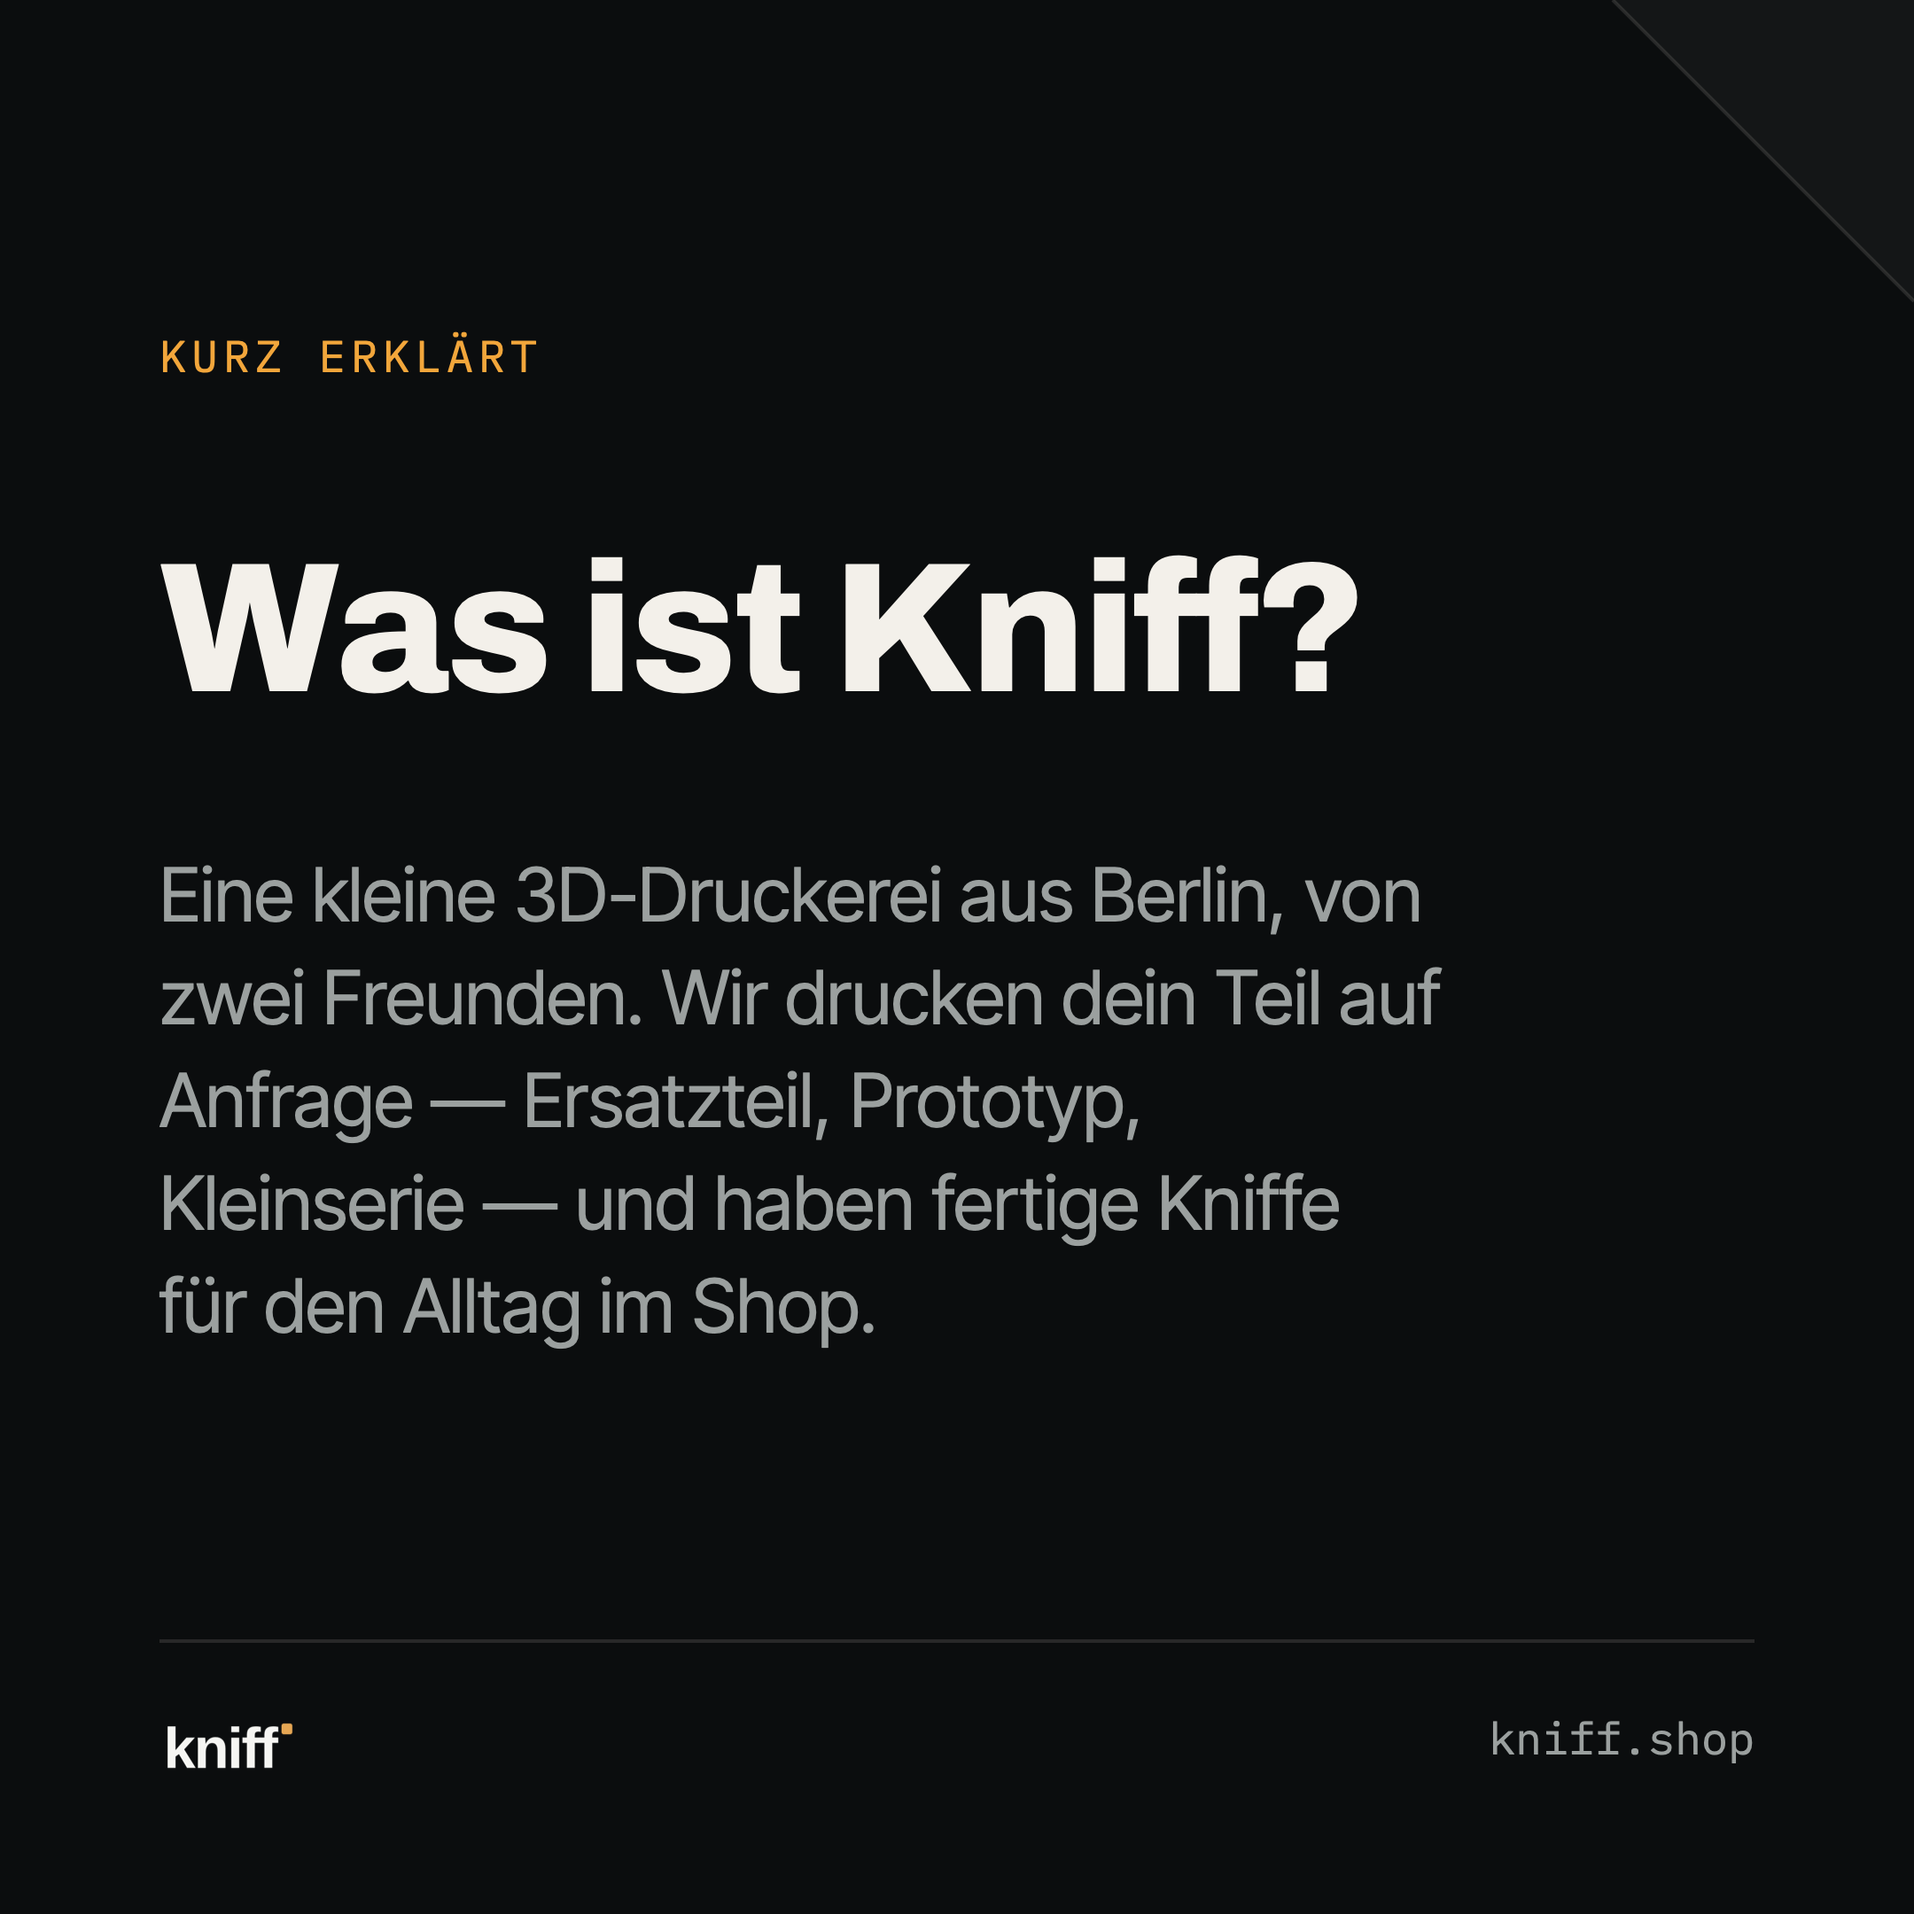
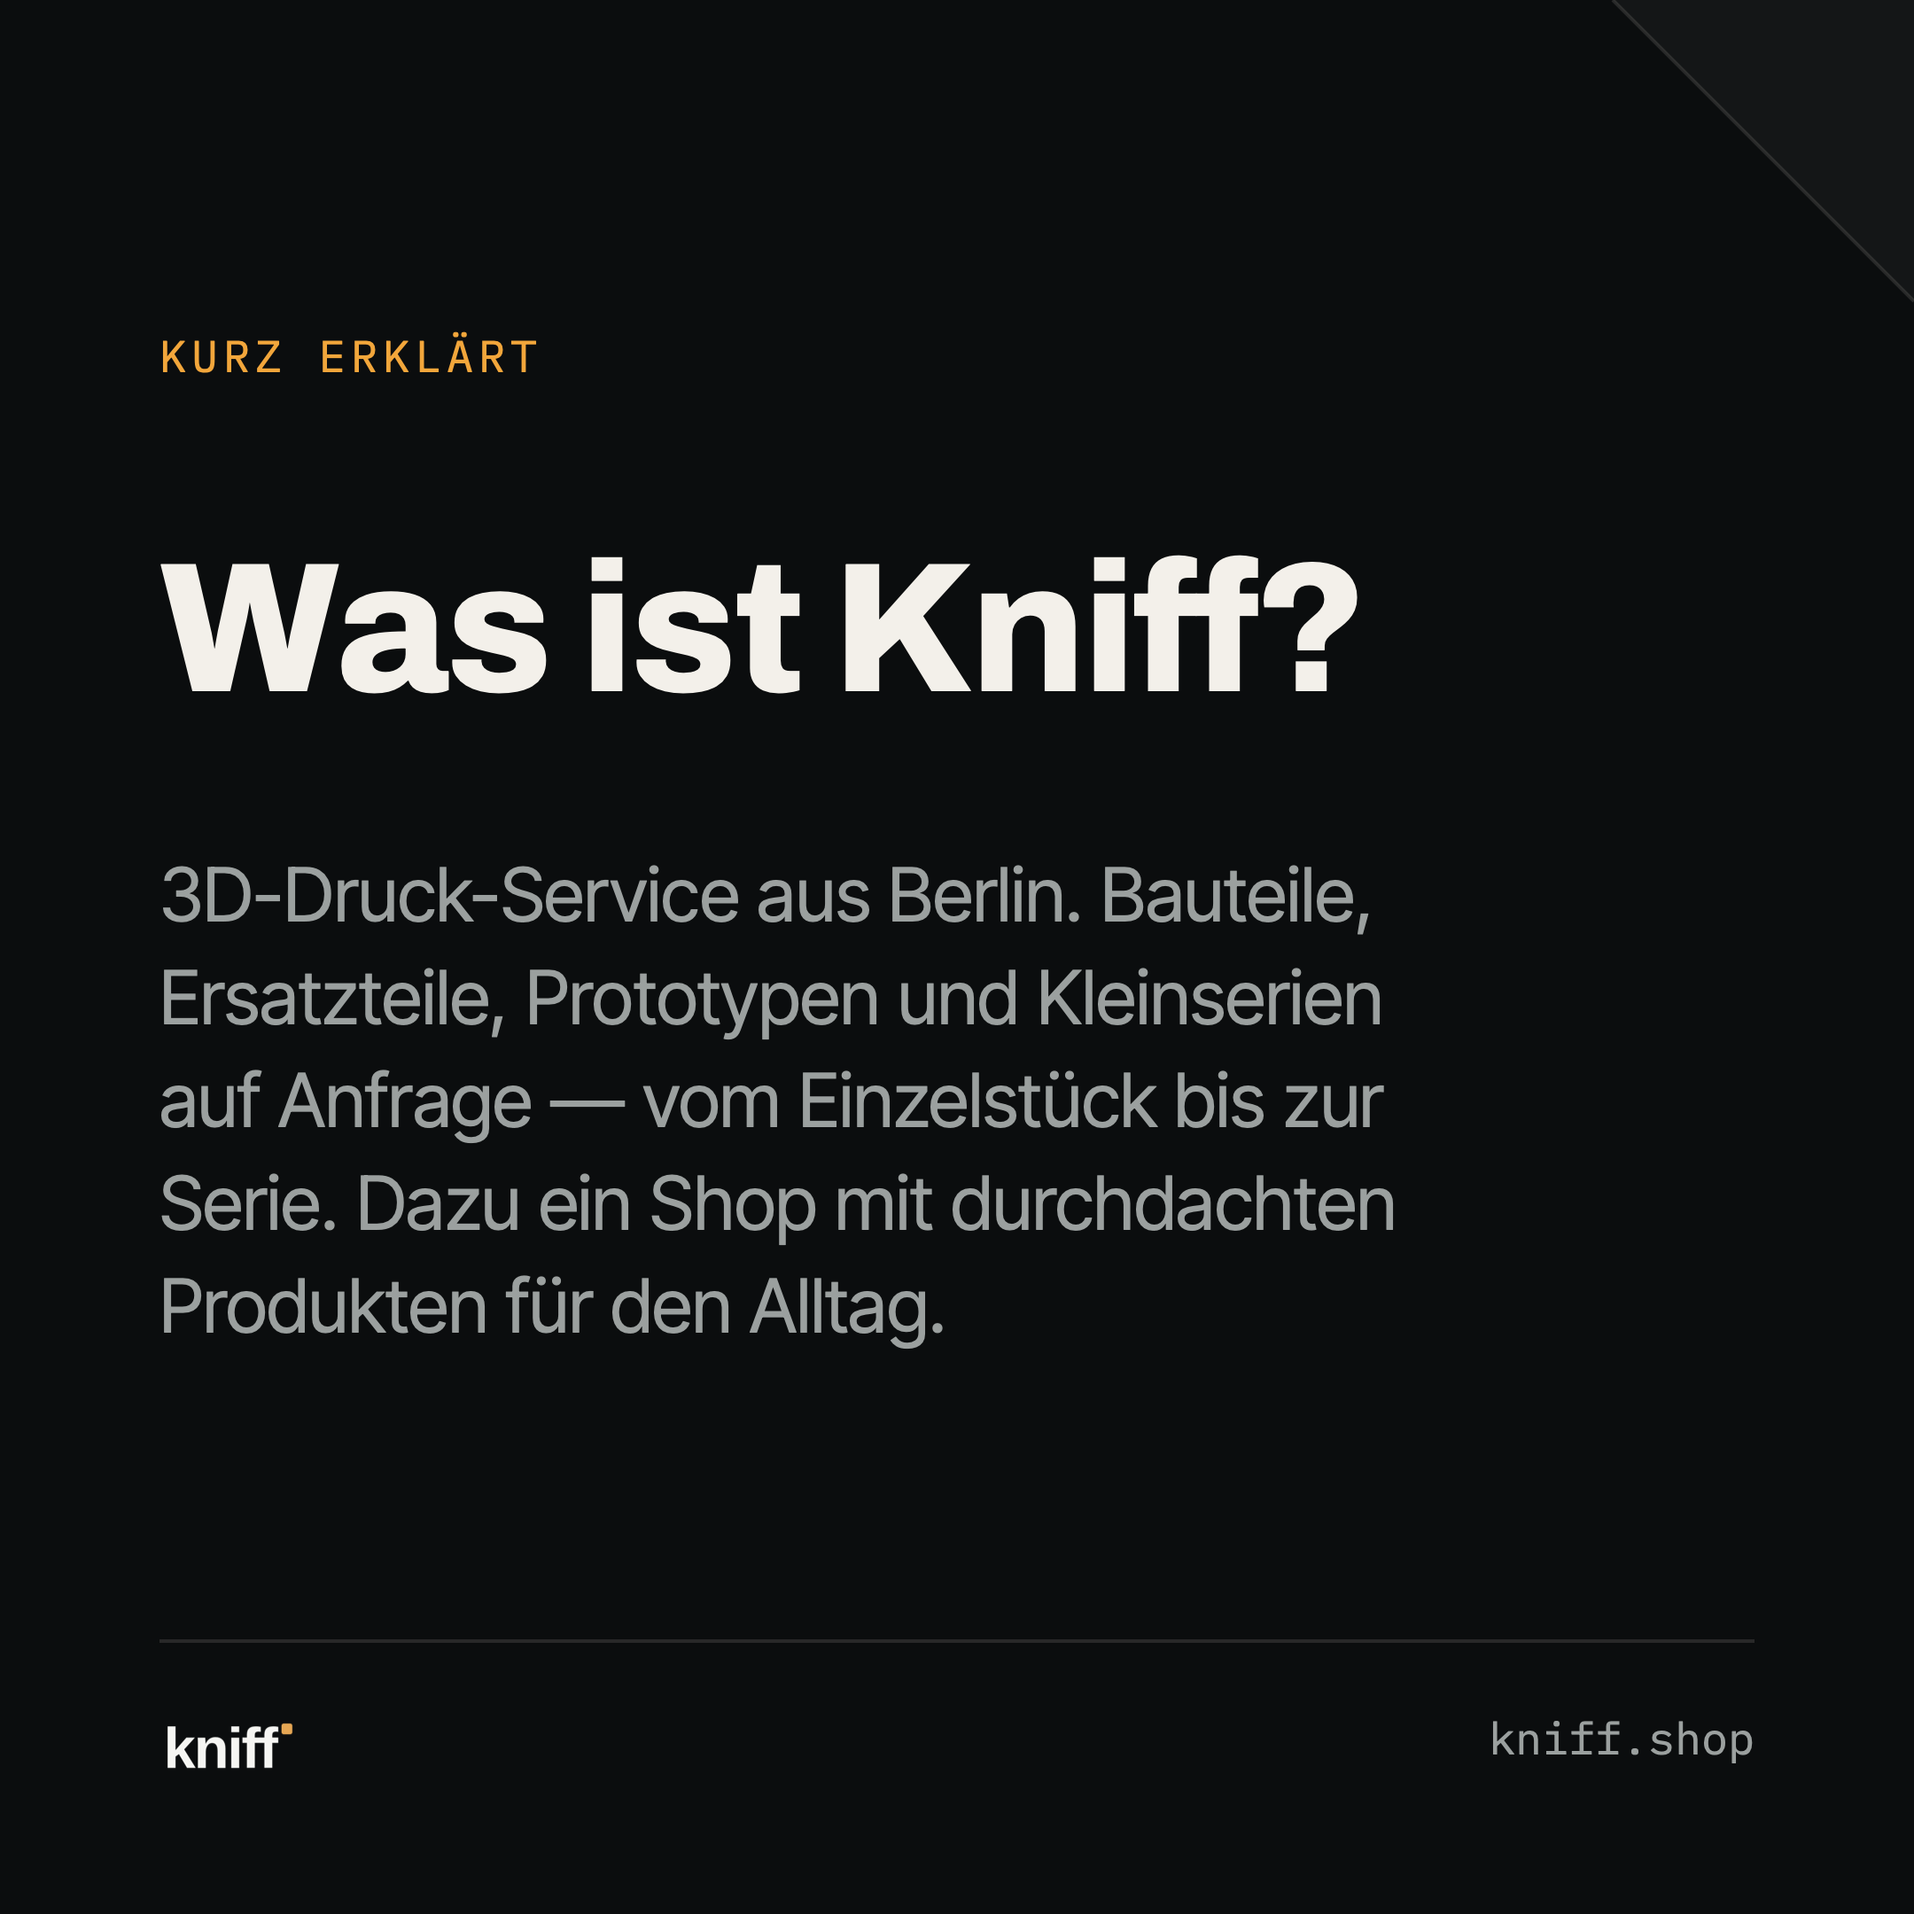
Produkt-Use-Case-Grafiken (Entwurf) + Post 02 professioneller + Launch-Story
- assets/usecase/: 5 KIE-Renders, je Produkt im Einsatz im Kino-Stil der
  Website (Etsy-Hero-tauglich). Master in 03-bild-quellen/render-masters/
  usecase/. Nicht im Deploy, nicht in die Produktseiten eingebaut — Entwurf.
  KIE: 70 credits, 48 übrig.
- Social-Post 02 "Was ist Kniff?": Text ohne "kleine Druckerei / zwei
  Freunde" — professionelles Bild: "3D-Druck-Service aus Berlin. Bauteile,
  Ersatzteile, Prototypen, Kleinserien ..."; index #was-wir-machen ebenso
  ("3D-Druck-Service" statt "kleine Druckerei").
- Neue Launch-Story 1080×1920 (06-launch): "Shop ist online", Checkliste
  mit Versand statt Rechtstexten.

Changed region(s): [[0.062, 0.4343, 0.7755, 0.7134]]

diff --git a/index.html b/index.html
@@ -113,7 +113,7 @@
     <div class="sc-wrap" data-sc-in data-sc-stagger="60">
       <p class="kf-eyebrow">Was wir machen</p>
       <h2 class="kf-h2">Zwei Wege zu deinem Teil.</h2>
-      <p class="kf-lede">Kniff ist eine kleine Druckerei aus Berlin. Wir drucken so ziemlich alles, was ein 3D-Drucker hergibt: Alltagshelfer, Ersatzteile, handwerkliche Bauteile, Modelle für Architektur- und Planungsbüros. Auf Wunsch passen wir Modelle an. Jedes Teil geht einzeln durch unsere Hand, bevor es verschickt wird.</p>
+      <p class="kf-lede">Kniff ist ein 3D-Druck-Service aus Berlin. Wir drucken so ziemlich alles, was ein 3D-Drucker hergibt: Alltagshelfer, Ersatzteile, handwerkliche Bauteile, Modelle für Architektur- und Planungsbüros. Auf Wunsch passen wir Modelle an. Jedes Teil geht einzeln durch unsere Kontrolle, bevor es verschickt wird.</p>
 
       <a class="kf-proofbar" href="#bewertungen">
         <span class="kf-proofbar__stars" aria-hidden="true">★★★★★</span>
